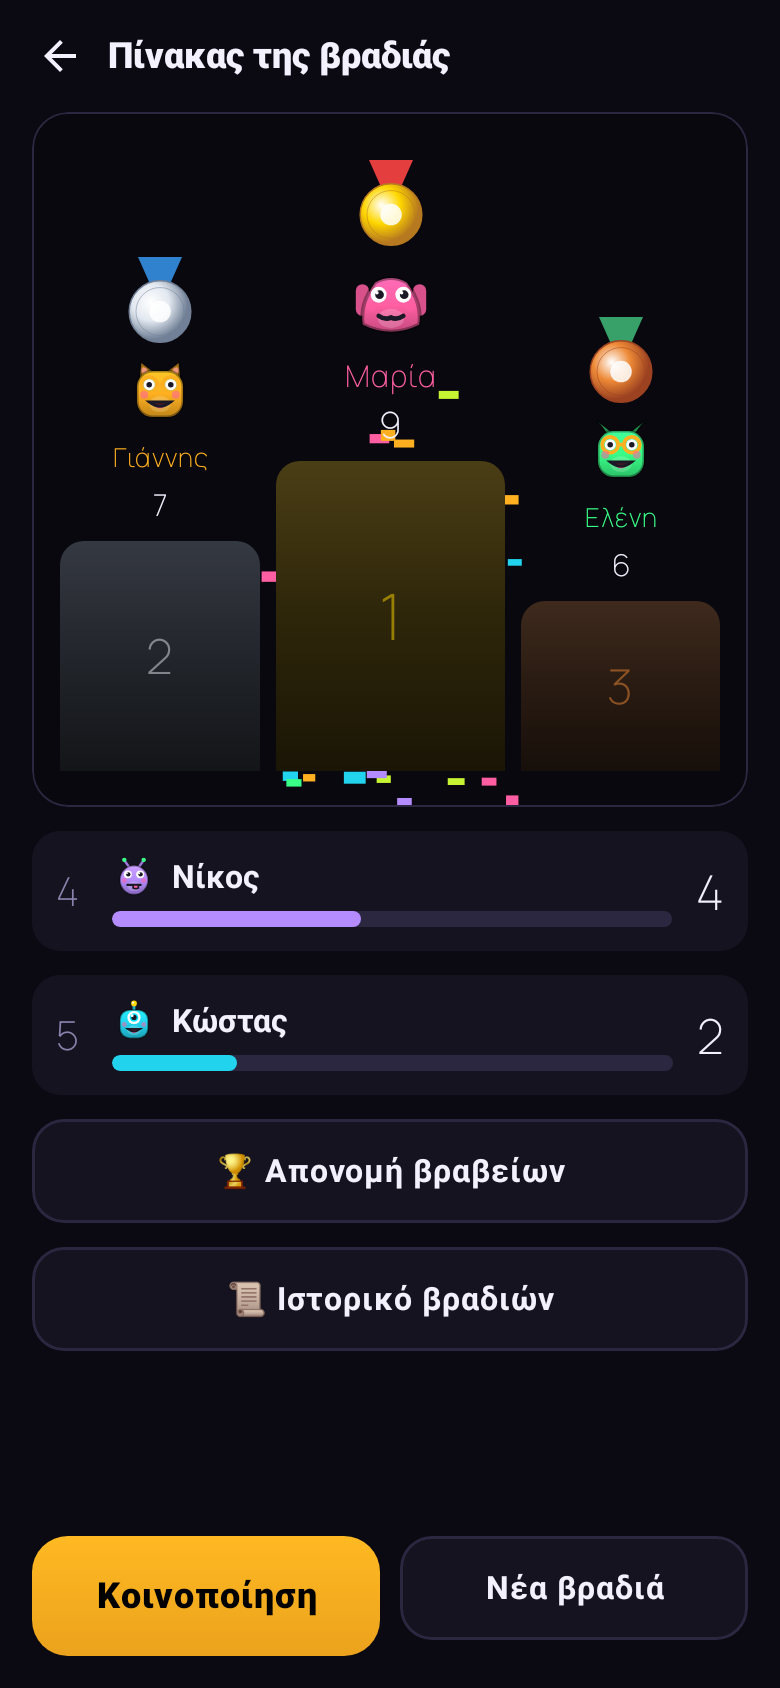
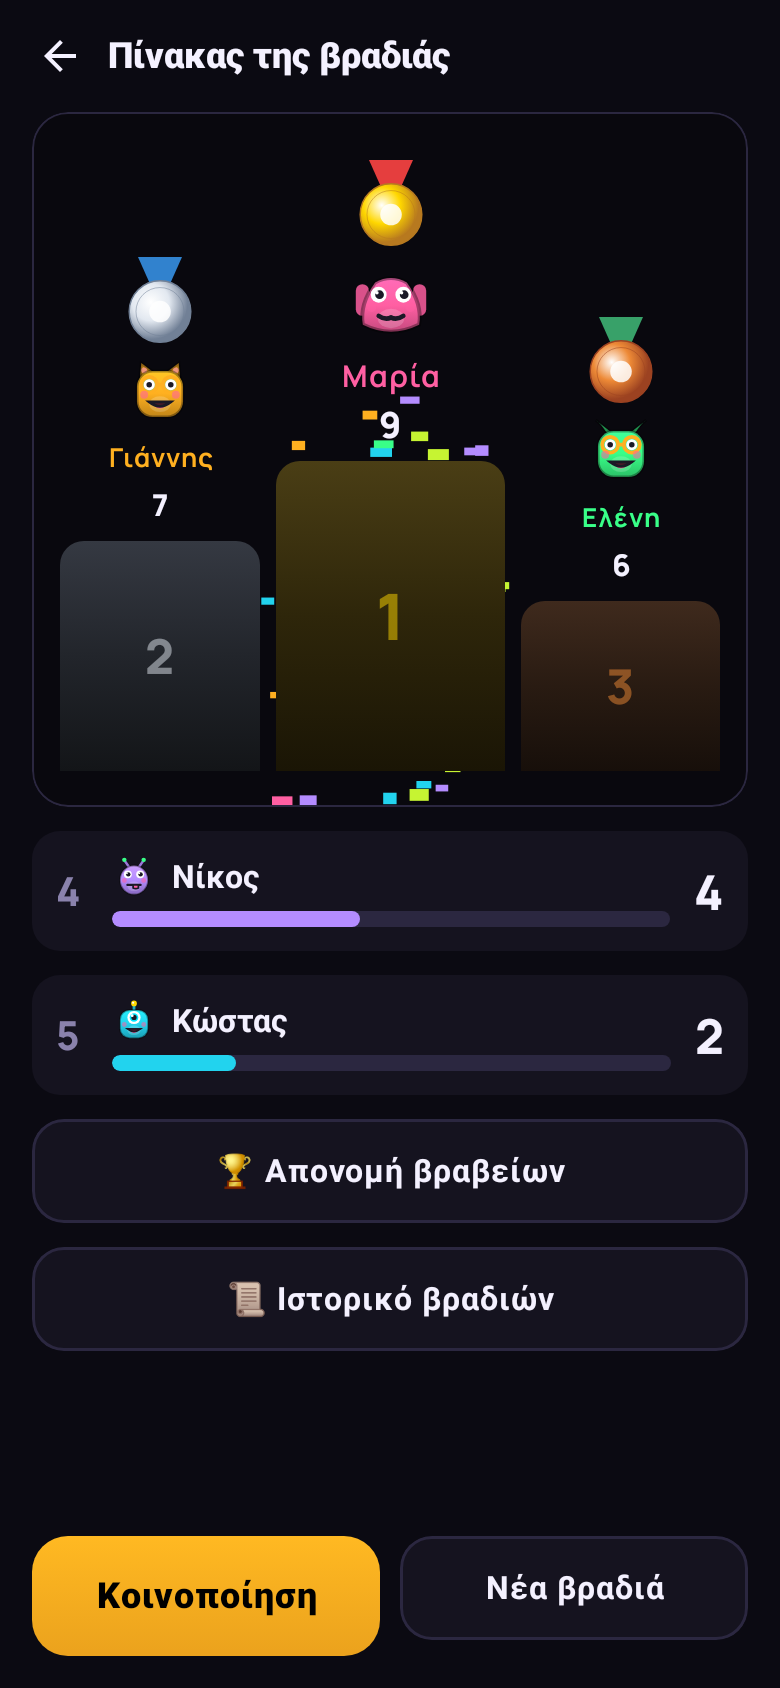
Scoreboard: conditional podium for non-zero scores, tie support, teams labels, and leader celebration

diff --git a/app/src/main/java/gr/wsol/gamenight/ui/Score.kt b/app/src/main/java/gr/wsol/gamenight/ui/Score.kt
@@ -58,6 +58,8 @@ fun shareText(n: Night): String = buildString {
     if (games.isNotEmpty()) { appendLine(); append(t("Παίξαμε: ", "We played: ") + games.joinToString(", ") { "${it.emoji} ${it.title}" }) }
 }.trim()
 
+private var lastCelebratedLeader: String? = null
+
 @Composable
 fun ScoreScreen() {
     val n = Store.night
@@ -67,6 +69,18 @@ fun ScoreScreen() {
     val top = (r.maxOfOrNull { it.second } ?: 0).coerceAtLeast(1)
     var entered by remember { mutableStateOf(false) }
     LaunchedEffect(Unit) { entered = true }
+
+    val hasWinner = r.isNotEmpty() && r[0].second > 0
+    val isTieForFirst = r.size >= 2 && r[0].second == r[1].second
+    val canCelebrate = hasWinner && !isTieForFirst
+    val currentLeader = if (canCelebrate) r[0].first else null
+    val shouldCelebrate = currentLeader != null && currentLeader != lastCelebratedLeader
+
+    LaunchedEffect(currentLeader) {
+        if (shouldCelebrate) {
+            lastCelebratedLeader = currentLeader
+        }
+    }
 
     Box(Modifier.fillMaxSize()) {
         Page(t("Πίνακας της βραδιάς", "Tonight's scores"), onBack = { Nav.back() }, bottom = {
@@ -82,8 +96,16 @@ fun ScoreScreen() {
                 Body(t("Πρόσθεσε παίκτες για να ξεκινήσει ο πίνακας.", "Add players to start the scoreboard."))
             }
 
-            // 3-tier rising podium when 3 or more players are participating
-            if (r.size >= 3) {
+            // 3-tier rising podium when 3 or more players are participating AND winner has points
+            val showPodium = r.size >= 3 && hasWinner
+            if (showPodium) {
+                val place0 = 1
+                val height0 = 155.dp
+                val place1 = if (r[1].second == r[0].second) 1 else 2
+                val height1 = if (r[1].second == r[0].second) 155.dp else 115.dp
+                val place2 = if (r[2].second == r[1].second) place1 else 3
+                val height2 = if (r[2].second == r[1].second) height1 else 85.dp
+
                 Panel(color = Color(0x33000000)) {
                     Row(
                         modifier = Modifier
@@ -92,41 +114,44 @@ fun ScoreScreen() {
                         horizontalArrangement = Arrangement.spacedBy(8.dp, Alignment.CenterHorizontally),
                         verticalAlignment = Alignment.Bottom
                     ) {
-                        // 2nd Place (Silver - Left)
+                        // 2nd Place (Left)
                         PodiumPillar(
-                            place = 2,
+                            place = place1,
                             side = r[1].first,
                             points = r[1].second,
-                            targetHeight = 115.dp,
+                            targetHeight = height1,
                             entered = entered,
                             night = n,
+                            showConfetti = false,
                             modifier = Modifier.weight(1f)
                         )
 
-                        // 1st Place (Gold - Center)
+                        // 1st Place (Center)
                         PodiumPillar(
-                            place = 1,
+                            place = place0,
                             side = r[0].first,
                             points = r[0].second,
-                            targetHeight = 155.dp,
+                            targetHeight = height0,
                             entered = entered,
                             night = n,
+                            showConfetti = shouldCelebrate && entered,
                             modifier = Modifier.weight(1.15f)
                         )
 
-                        // 3rd Place (Bronze - Right)
+                        // 3rd Place (Right)
                         PodiumPillar(
-                            place = 3,
+                            place = place2,
                             side = r[2].first,
                             points = r[2].second,
-                            targetHeight = 85.dp,
+                            targetHeight = height2,
                             entered = entered,
                             night = n,
+                            showConfetti = false,
                             modifier = Modifier.weight(1f)
                         )
                     }
                 }
-            } else if (r.isNotEmpty() && r[0].second > 0) {
+            } else if (r.isNotEmpty() && hasWinner) {
                 // 1-2 players banner
                 val (s, p) = r[0]
                 Panel(color = C.panel2) {
@@ -141,9 +166,9 @@ fun ScoreScreen() {
                 }
             }
 
-            // Players list: starting from 4th for podium, or from 1st if less than 3
-            val listPlayers = if (r.size >= 3) r.drop(3) else r
-            val startIndex = if (r.size >= 3) 3 else 0
+            // Players list: starting from 4th for podium, or from 1st if no podium
+            val listPlayers = if (showPodium) r.drop(3) else r
+            val startIndex = if (showPodium) 3 else 0
 
             listPlayers.forEachIndexed { idx, (s, p) ->
                 val rank = startIndex + idx + 1
@@ -223,7 +248,7 @@ fun ScoreScreen() {
             onDismissRequest = { confirm = false },
             title = { Text(t("Νέα βραδιά;", "New night?"), color = C.text) },
             text = { Text(t("Οι πόντοι μηδενίζονται και η βραδιά μπαίνει στο ιστορικό. Οι παίκτες και οι ομάδες μένουν.", "Points go back to zero and the night goes into the history. Players and teams stay."), color = C.muted) },
-            confirmButton = { TextButton(onClick = { gr.wsol.gamenight.core.History.add(n); Store.night = n.copy(points = emptyMap(), log = emptyList(), started = System.currentTimeMillis()); confirm = false }) { Text(t("Μηδενισμός", "Reset"), color = C.amber) } },
+            confirmButton = { TextButton(onClick = { gr.wsol.gamenight.core.History.add(n); Store.night = n.copy(points = emptyMap(), log = emptyList(), started = System.currentTimeMillis()); lastCelebratedLeader = null; confirm = false }) { Text(t("Μηδενισμός", "Reset"), color = C.amber) } },
             dismissButton = { TextButton(onClick = { confirm = false }) { Text(t("Άκυρο", "Cancel"), color = C.muted) } },
             containerColor = C.panel,
         )
@@ -313,6 +338,7 @@ private fun PodiumPillar(
     targetHeight: androidx.compose.ui.unit.Dp,
     entered: Boolean,
     night: Night,
+    showConfetti: Boolean = false,
     modifier: Modifier = Modifier
 ) {
     val height by animateDpAsState(
@@ -338,8 +364,8 @@ private fun PodiumPillar(
         horizontalAlignment = Alignment.CenterHorizontally,
         verticalArrangement = Arrangement.Bottom
     ) {
-        // Confetti for 1st place
-        if (place == 1 && points > 0) {
+        // Confetti only for celebrated leader
+        if (showConfetti) {
             Confetti(trigger = entered)
         }
 
@@ -378,6 +404,18 @@ private fun PodiumPillar(
             maxLines = 1,
             textAlign = TextAlign.Center
         )
+
+        // Teams: show members in small text below team name
+        if (night.teams) {
+            Text(
+                text = night.membersOf(side).joinToString(", "),
+                style = Type.small,
+                fontSize = 10.5.sp,
+                color = C.muted,
+                maxLines = 1,
+                textAlign = TextAlign.Center
+            )
+        }
 
         // Points
         Text(

diff --git a/app/src/test/java/gr/wsol/gamenight/ScreenshotsTest.kt b/app/src/test/java/gr/wsol/gamenight/ScreenshotsTest.kt
@@ -85,6 +85,22 @@ class ScreenshotsTest {
         shot("02-players") { PlayersScreen() }
     }
     @Test fun s03_score() = shot("03-score") { ScoreScreen() }
+    @Test fun s03b_score_zero() {
+        val players = names.mapIndexed { i, n -> Player(n, Palette.players[i], avatar = i) }
+        Store.night = Store.night.copy(players = players, teams = false, points = emptyMap())
+        shot("03b-score-zero") { ScoreScreen() }
+    }
+    @Test fun s03c_score_tie() {
+        val players = names.mapIndexed { i, n -> Player(n, Palette.players[i], avatar = i) }
+        Store.night = Store.night.copy(players = players, teams = false, points = mapOf("Γιάννης" to 8, "Μαρία" to 8, "Νίκος" to 8, "Ελένη" to 4, "Κώστας" to 2))
+        shot("03c-score-tie") { ScoreScreen() }
+    }
+    @Test fun s03d_score_teams() {
+        val sixNames = listOf("Γιάννης", "Μαρία", "Νίκος", "Ελένη", "Κώστας", "Δήμητρα")
+        val sixPlayers = sixNames.mapIndexed { i, n -> Player(n, Palette.players[i], avatar = i) }
+        Store.night = Store.night.copy(players = sixPlayers, teams = true, teamOf = sixNames.withIndex().associate { (i, n) -> n to i % 2 }, points = mapOf("#0" to 12, "#1" to 9))
+        shot("03d-score-teams") { ScoreScreen() }
+    }
     @Test fun s04_settings() = shot("04-settings") { SettingsScreen() }
     @Test fun s04b_havales() { Store.settings = Store.settings.copy(havales = true); shot("04b-havales") { androidx.compose.foundation.layout.Column(androidx.compose.ui.Modifier.padding(16.dp)) { gr.wsol.gamenight.ui.AiPanel() } } }
     @Test fun s05_taboo_intro() = shot("05-taboo-intro") { game("taboo")(host) }
